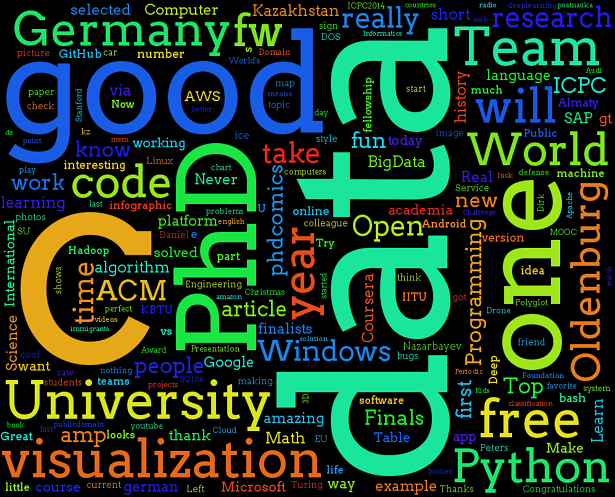
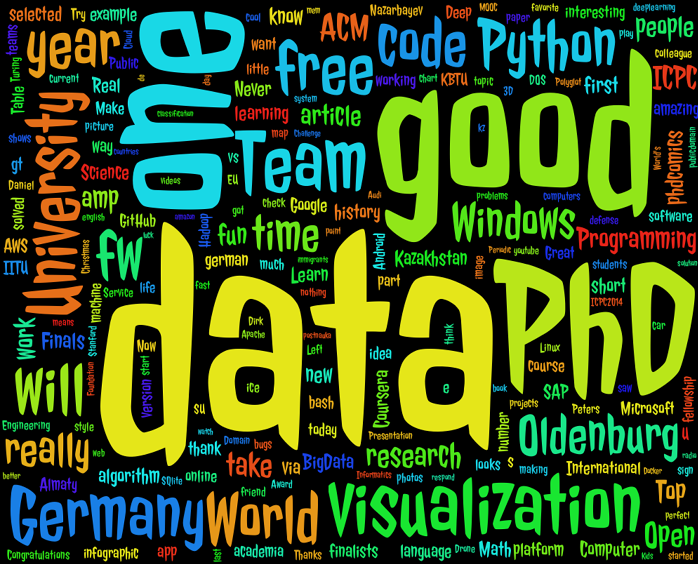
Updating links for the service-to-wordcloud example, changing image of it

diff --git a/index.html b/index.html
@@ -92,22 +92,22 @@
                             <hr class="divider" />
 							
 							<div class="item row">
-                                <a class="col-md-4 col-sm-4 col-xs-12" href="https://github.com/vdmitriyev/services-to-wordcloud" target="_blank">
+                                <a class="col-md-4 col-sm-4 col-xs-12" href="https://github.com/vdmitriyev/services-to-wordcloud#about" target="_blank">
                                 <img class="img-responsive project-image" src="assets/images/projects/project-services-to-wordcloud.png" alt="services-to-wordcloud" />
                                 </a>
                                 <div class="desc col-md-8 col-sm-8 col-xs-12">
-                                    <h3 class="title"><a href="https://github.com/vdmitriyev/services-to-wordcloud" target="_blank">Services to Wordcloud with Python</a></h3>
+                                    <h3 class="title"><a href="https://github.com/vdmitriyev/services-to-wordcloud#about" target="_blank">Services to Wordcloud with Python</a></h3>
                                     <p>Tiny python utility that converts data crawled from different services into cloud of words. List of currently supported services:
 										<ul>
-											<li><a href="https://github.com/vdmitriyev/services-to-wordcloud/tree/master/services/twitter">Twitter (main timeline and followers locations)</a></li>
-											<li><a href="https://github.com/vdmitriyev/services-to-wordcloud/tree/master/services/orcid">ORCID (publications titles and abstracts)</a></li>
-											<li><a href="https://github.com/vdmitriyev/services-to-wordcloud/tree/master/services/rss">RSS (any RSS Feed)</a></li>
-											<li><a href="https://github.com/vdmitriyev/services-to-wordcloud/tree/master/services/tumblr">Tumblr (blogs as a texts)</a></li>
-											<li><a href="https://github.com/vdmitriyev/services-to-wordcloud/tree/master/services/github">GitHub (comments from commits)</a></li>
-											<li><a href="https://github.com/vdmitriyev/services-to-wordcloud/tree/master/services/habr">Habrahabr (user comments)</a></li>
+											<li><a href="https://github.com/vdmitriyev/services-to-wordcloud/tree/master/services/twitter#about">Twitter (main timeline and followers locations)</a></li>
+											<li><a href="https://github.com/vdmitriyev/services-to-wordcloud/tree/master/services/orcid#about">ORCID (publications titles and abstracts)</a></li>
+											<li><a href="https://github.com/vdmitriyev/services-to-wordcloud/tree/master/services/rss#about">RSS (any RSS Feed)</a></li>
+											<li><a href="https://github.com/vdmitriyev/services-to-wordcloud/tree/master/services/tumblr#about">Tumblr (blogs as a texts)</a></li>
+											<li><a href="https://github.com/vdmitriyev/services-to-wordcloud/tree/master/services/github#about">GitHub (comments from commits)</a></li>
+											<li><a href="https://github.com/vdmitriyev/services-to-wordcloud/tree/master/services/habr#about">Habrahabr (user comments)</a></li>
 										</ul>
 									</p>
-                                    <p><a class="more-link" href="https://github.com/vdmitriyev/services-to-wordcloud" target="_blank"><i class="fa fa-external-link"></i> Find out more</a></p>
+                                    <p><a class="more-link" href="https://github.com/vdmitriyev/services-to-wordcloud#about" target="_blank"><i class="fa fa-external-link"></i> Find out more</a></p>
                                     <p><a class="more-link" href="https://github.com/vdmitriyev/services-to-wordcloud/fork" target="_blank"><i class="fa fa-external-link"></i>Fork on GitHub</a></p>
                                 </div><!--//desc-->                          
                             </div><!--//item--> 
